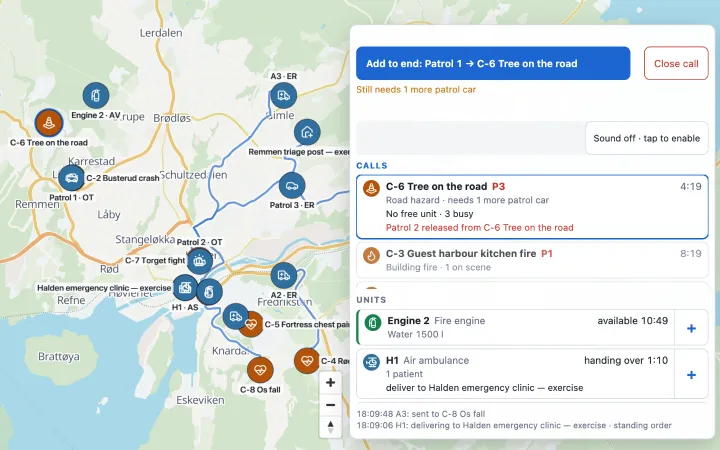
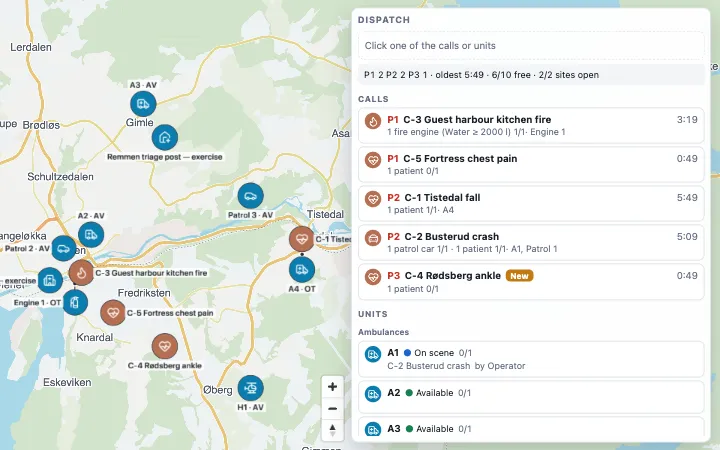
Show the Dispatch panel in the landing and guide Einsatz screenshots
Recaptured from this head (local stack, base-map tiles served from
leitbild.app as the October images were): the hero shows a waiting P1
chest-pain call with its suggested unit and Dispatch button; the guide
shows the panel overview, calls ranked by priority with waiting times and
the units below. Both are the same 960x600 CSS crop the old images used,
encoded by Chromium as WebP at the same sizes. The hero alt text now says
what the captured image shows. Shared Host file: landing-content.ts.

diff --git a/apps/leitbild/src/ui/landing-content.ts b/apps/leitbild/src/ui/landing-content.ts
@@ -90,7 +90,7 @@ export const HERO_SLIDES: ReadonlyArray<HeroSlide> = [
     eyebrow: 'Emergency dispatch · Einsatz',
     title: 'Dispatch by touch',
     blurb: 'Send ambulances, patrol cars and fire engines to fictional calls on your own: tap a call, then Dispatch.',
-    alt: 'The Dispatch panel over a map of Halden: a waiting call with its suggested unit and Dispatch button, above the calls and units.',
+    alt: 'The Dispatch panel over a map of Halden: a waiting chest-pain call with its suggested unit and Dispatch button, above the list of calls.',
     image: 'hero-einsatz',
     link: { kind: 'demo', demo: DEMO_KEYS.dispatch, label: 'Try the dispatch demo' },
   },
